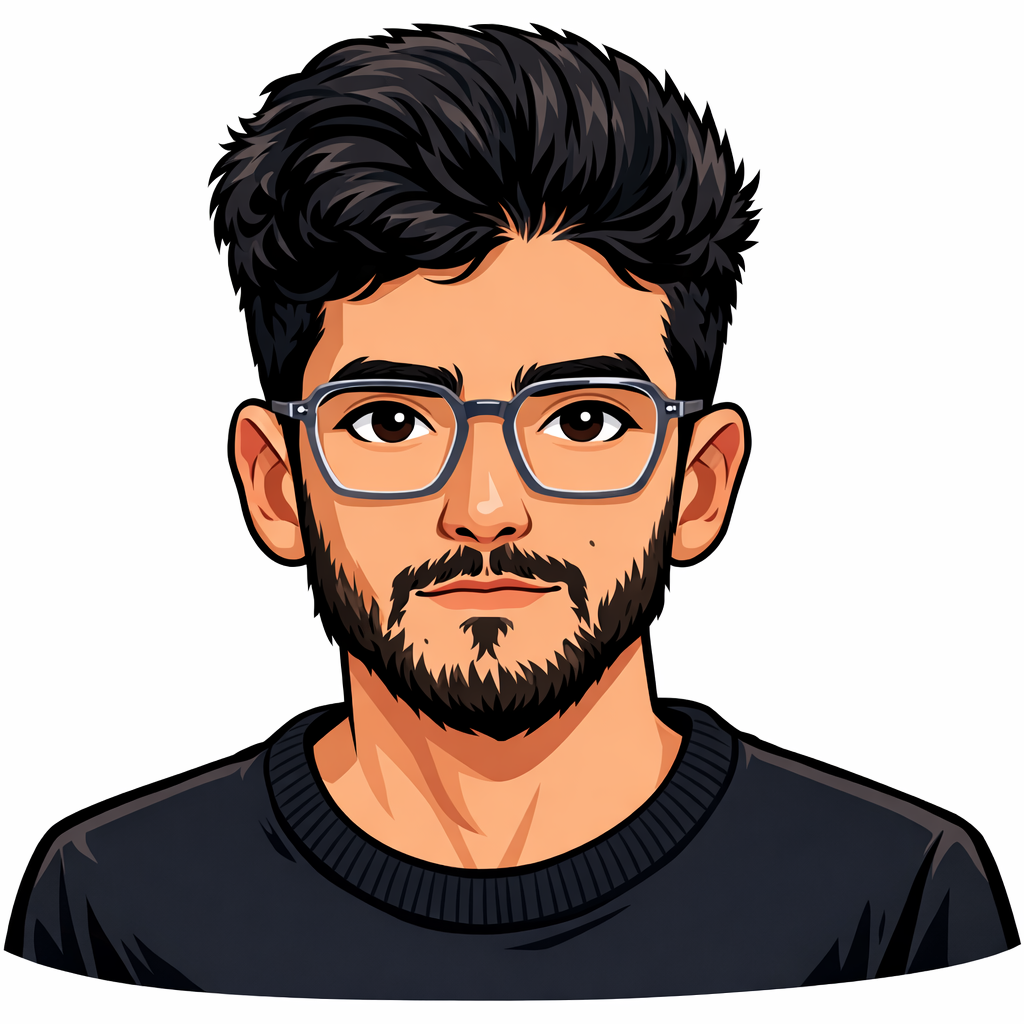
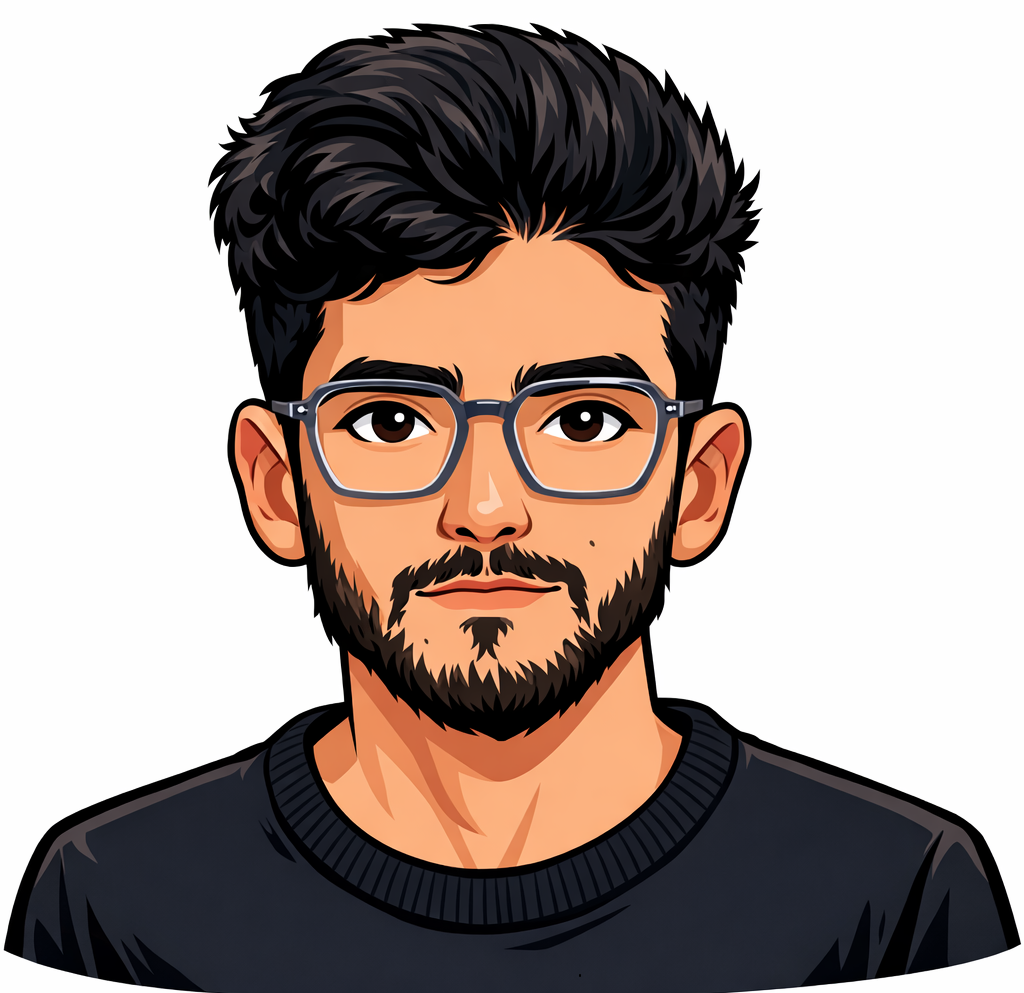
Update profile image scaling in Hero component

Changed region(s): [[0.0, 0.0312, 1.0, 1.0]]

diff --git a/src/app/components/Hero.tsx b/src/app/components/Hero.tsx
@@ -229,7 +229,7 @@ export function Hero() {
                 <ImageWithFallback
                   src={`${import.meta.env.BASE_URL}profile.png`}
                   alt="Hamdi Mokni"
-                  className="w-full h-full object-cover object-center min-w-0 min-h-0 scale-105"
+                  className="w-full h-full object-cover object-center min-w-0 min-h-0 scale-100"
                 />
               </div>
               
